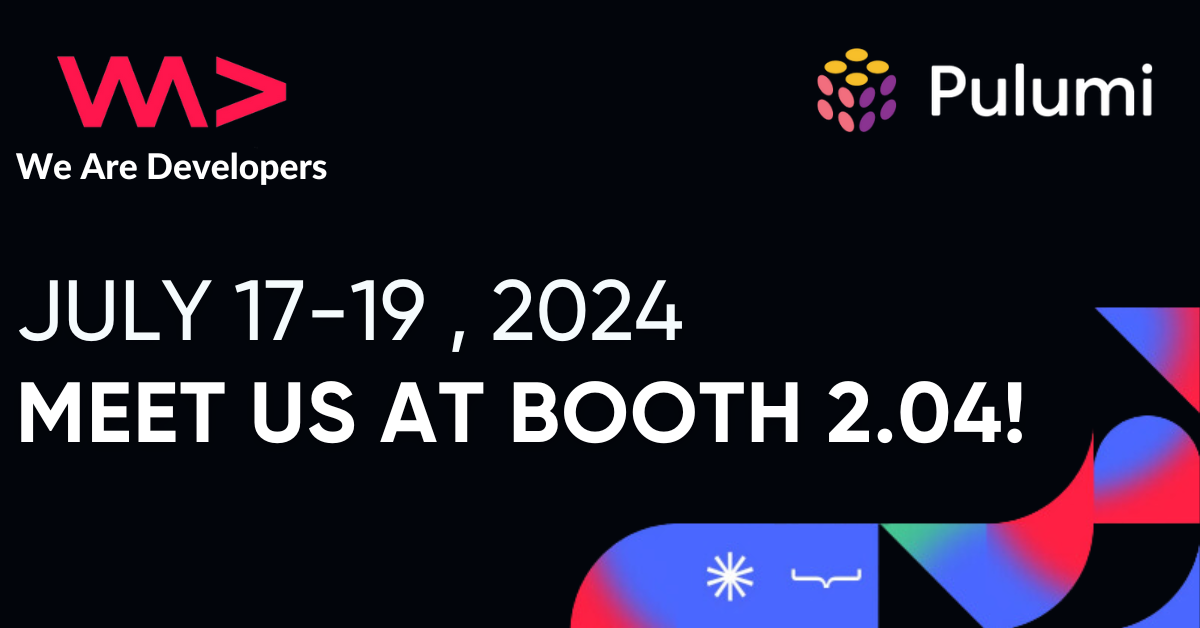
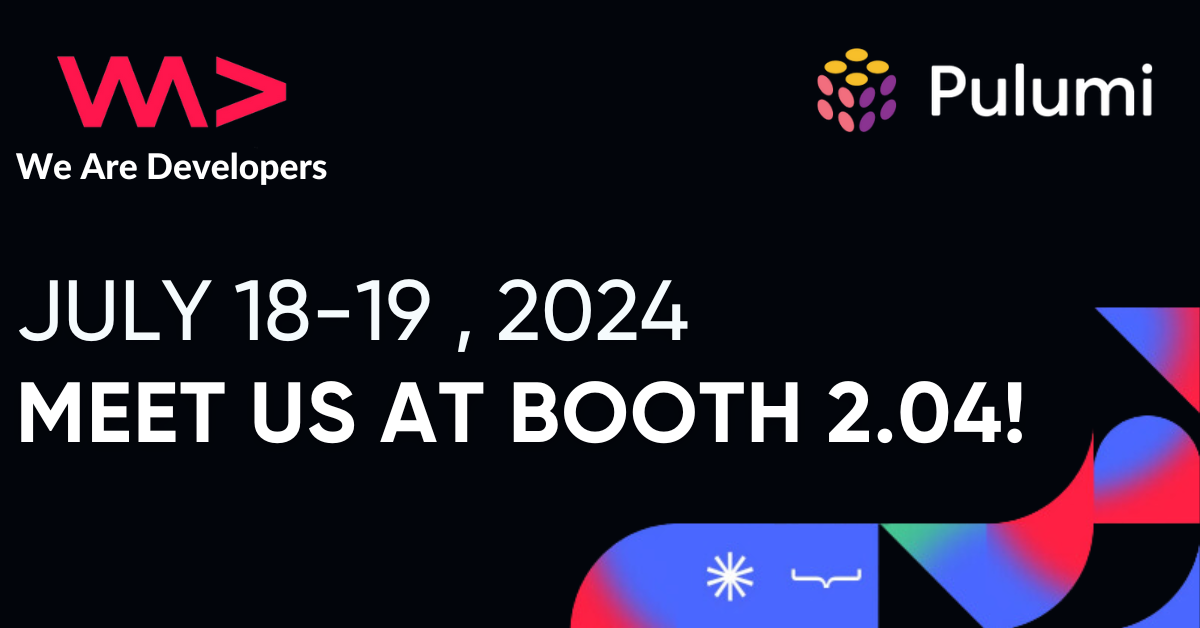
update dates and meta

Changed region(s): [[0.2158, 0.4236, 0.5858, 0.5748]]

diff --git a/content/we-are-developers/_index.md b/content/we-are-developers/_index.md
@@ -1,11 +1,11 @@
 ---
-title: WeAreDevelopers Berlin - July 17-19, 2024
+title: WeAreDevelopers Berlin - July 18-19, 2024
 meta_desc: Join the Pulumi team at the annual WeAreDevelopers Conference in Berlin. Meet us at booth 2.04, July 18-19, 2024
 meta_image: /images/we-are-developers/we-are-developers-meta.png
 type: page
 layout: we-are-developers
 
-display_title: WeAreDevelopers Berlin <br/> July 17-19, 2024
+display_title: WeAreDevelopers Berlin <br/> July 18-19, 2024
 links:
     items:
         - heading: Request a Demo

diff --git a/content/resources/we-are-developers/index.md b/content/resources/we-are-developers/index.md
@@ -39,7 +39,7 @@ main:
     youtube_url:
 
     # Sortable date. The datetime Hugo will use to sort the webinars in date order.
-    sortable_date: 2024-07-17T09:00:00-00:00
+    sortable_date: 2024-07-18T09:00:00-00:00
 
     # Duration of the webinar.
     duration: 1 hour
